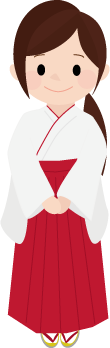
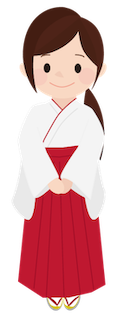
お賽銭機能の修正

diff --git a/osaisen/sample.css b/osaisen/sample.css
@@ -10,19 +10,22 @@ body {
   text-align: center;
 }
 .box img {
-  width: 40%;
+  width: 50%;
 }
+
 .miko {
   position: absolute;
-  margin-left: 10%;
+  margin-left: 6%;
+  margin-top: 1%;
   margin-bottom: 0%;
 }
+
 #btn_suzu {
   display: none;
   text-align: center;
 }
 #btn_goen {
-  margin-left: 30%;
+  margin-left: 10%;
   position: absolute;
   text-align: center;
 }
@@ -34,7 +37,7 @@ body {
 #ex1 {
   position: relative;
   display: inline-block;
-  margin-left: 9%;
+  margin-left: 4%;
   padding: 7px 10px;
   min-width: 120px;
   max-width: 100%;
@@ -58,3 +61,60 @@ body {
   margin: 0;
   padding: 0;
 }
+
+*,
+*:before,
+*:after {
+  -webkit-box-sizing: inherit;
+  box-sizing: inherit;
+}
+
+html {
+  -webkit-box-sizing: border-box;
+  box-sizing: border-box;
+  font-size: 62.5%;
+}
+
+.btn,
+a.btn,
+button.btn {
+  font-size: 1.6rem;
+  font-weight: 700;
+  line-height: 1.5;
+  position: relative;
+  display: inline-block;
+  padding: 1rem 4rem;
+  cursor: pointer;
+  -webkit-user-select: none;
+  -moz-user-select: none;
+  -ms-user-select: none;
+  user-select: none;
+  -webkit-transition: all 0.3s;
+  transition: all 0.3s;
+  text-align: center;
+  vertical-align: middle;
+  text-decoration: none;
+  letter-spacing: 0.1em;
+  color: #212529;
+  border-radius: 0.5rem;
+}
+
+a.btn-malformation {
+  font-size: 2rem;
+
+  padding: 3rem 4rem;
+
+  color: #fff;
+  border-radius: 100% 80px / 80px 100%;
+  background-color: 	rgba(255,215,0, 0.9);
+}
+
+a.btn-malformation:hover {
+  color: #fff;
+  border-radius: 60% 80% / 100% 80%;
+}
+.okane {
+  margin-top: 5%;
+  margin-left: 30%;
+}
+

diff --git a/osaisen/index.html b/osaisen/index.html
@@ -3,13 +3,21 @@
 <head>
 <meta charset="UTF-8">
 <link rel="stylesheet" href="sample.css">
-<title>サンプル</title>
+<link rel="shortcut icon" href="img/logo.png">
+<title>お賽銭 | 神様に会おう</title>
 <script src="https://code.jquery.com/jquery-3.3.1.slim.min.js"></script>
+<script src="https://unpkg.com/sweetalert/dist/sweetalert.min.js"></script>
 <script src="sample.js"></script>
 </script>
 </head>
 <body id="body">
 <div class="back">
+  <script>
+    swal({
+        title: 'お賽銭エリアへようこそ',
+        text: '巫女さんの説明を聞いて楽しんでください！'
+    });
+</script>
 <div class="box" id="ex2">
   <img src="img/tuna1.png" id="tuna" name="img" onclick="suzuClick();">
   <p class="p_suzu">
@@ -17,14 +25,15 @@
   </p>
 </div>
 <div id="ex1">
-  <p>お金を入れる</p>
+  <p>お金を入れてください</p>
 </div>
-<p>
-  <input type="image" src="img/goen.png" id="btn_goen" onclick="goyenClick();">
-</p>
 <div class="miko">
-  <img src="img/miko.png">
+  <img src="img/miko.png" id="miko_img" name="miko">
 </div>
+<div class = "okane">
+  <a class="btn btn-malformation" id="btn_goen" onclick="goyenClick();" >　お金を投入する　</a>
+</div>
+<footer></footer>
 </div>
 </body>
 </html>

diff --git a/osaisen/sample.js b/osaisen/sample.js
@@ -8,12 +8,19 @@ function goyenClick(){
 
   document.getElementById("ex1").innerText = "鈴を振りましょう";
 
+  var elem = document.getElementById("miko_img");
+  elem.src = "img/miko2.png"
+
   document.getElementById("btn_suzu").removeAttribute
   ("disabled");
 }
 
 function suzuClick(){
-  document.getElementById("ex1").innerText = "お願いをしましょう";
+
+  var elem = document.getElementById("miko_img");
+  elem.src = "img/miko.png"
+
+  document.getElementById("ex1").innerText = "神様にご挨拶をしましょう";
   if(flg < 2) {
     document.img.src = "img/tuna" + num + ".png";
     num++;
@@ -30,8 +37,12 @@ function suzuClick(){
 }
 
 function temp(){
-  console.log("神が舞い降りる");
-
-  let body_color = document.getElementById("body");
-  body_color.style.background= "";
+  swal({
+    content: {
+      element: "input",
+      attributes: {
+        placeholder: "2021年の抱負を教えてください",
+      },
+    },
+  });
 }
